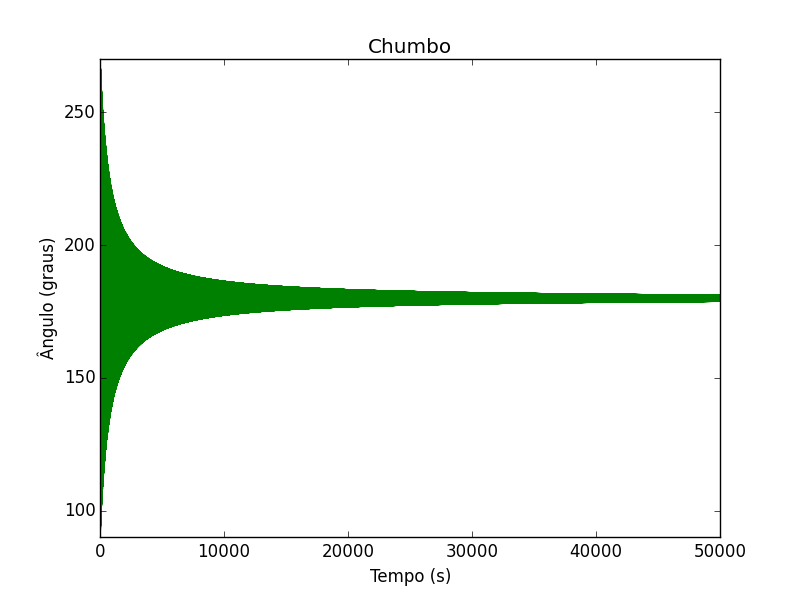
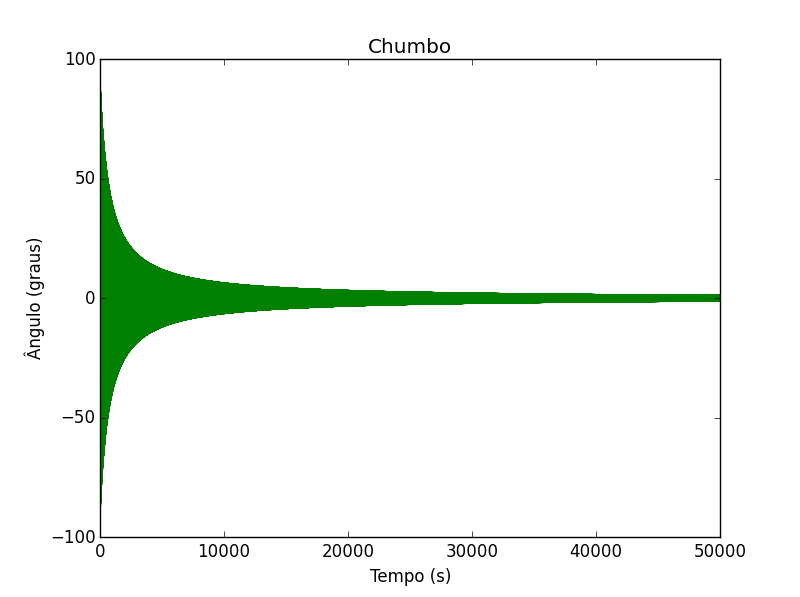
graficos

diff --git a/Iteração_1.py b/Iteração_1.py
@@ -73,6 +73,7 @@ Z = odeint(chumbo, V0, T)       # obtendo os valores a serem plotados a parte da
 
 for e in Z:
     e[0] = pi_rad(e[0])
+    e[0] = e[0] - 180
 
 
     # OBTENDO OS PONTOS MÁXIMOS DA FUNÇÃO ANTERIOR:
@@ -106,15 +107,15 @@ for i in range(1, len(Z)-1):
 # PLOTANDO OS DADOS:
 
 plt.plot(T, Z[:, 0],'g')     # Definindo quais variaveis serão plotados
-plt.axis([0, max(T), 90, 270])     # Definindo os valores máx e min a serem plotados
+plt.axis([0, max(T), -100, 100])     # Definindo os valores máx e min a serem plotados
 plt.ylabel('Ângulo (graus)')     # Definindo a label do eixo y
 plt.xlabel('Tempo (s)')     # Definindo a label do eixo x
 plt.title('Chumbo')     # Definindo o título
 plt.show()     # Faz o gráfico aparecer
 
-plt.plot(T2, p_maximo)     # Definindo quais variaveis serão plotados
-plt.plot(T3, p_minimo)     # Definindo quais variaveis serão plotados
-plt.axis([0, max(T2), 90, 270])     # Definindo os valores máx e min a serem plotados
+plt.plot(T2, p_maximo, 'r')     # Definindo quais variaveis serão plotados
+plt.plot(T3, p_minimo, 'b')     # Definindo quais variaveis serão plotados
+plt.axis([0, max(T2), -100, 100])     # Definindo os valores máx e min a serem plotados
 plt.ylabel('Ângulo Máximo/Mínimo (graus)')     # Definindo a label do eixo y
 plt.xlabel('Tempo (s)')     # Definindo a label do eixo x
 plt.title('Chumbo')     # Definindo o título
